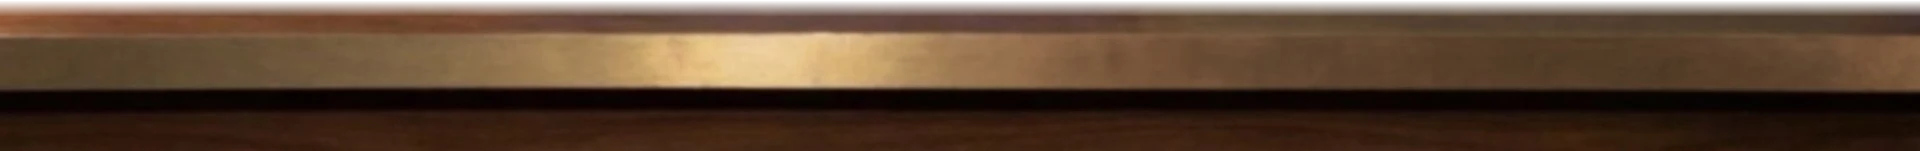
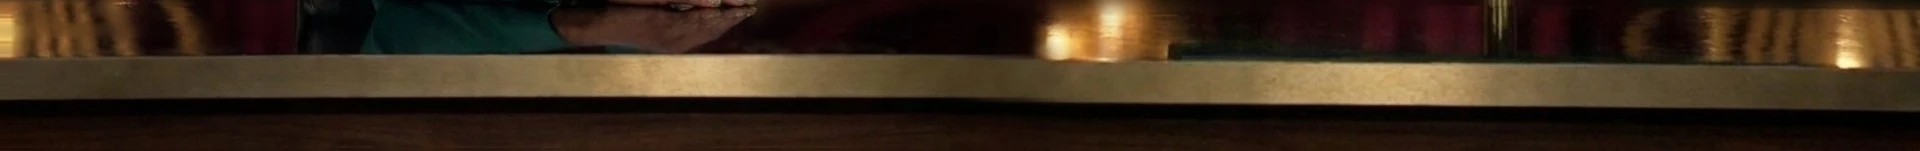
feat: The Gilded Reel moves to an art-deco stage, with Jada framed wider
The studio is redesigned as an art-deco cinema stage: burgundy velvet drapes,
gold sunburst panels and marquee bulbs, all softly out of focus behind a
glossy black desk with a brass edge, and the guest's TV standing on a brass
stand in the open stage rather than on a wall. Jada is framed wider in her
portrait, with room around her hands, and the background behind her is
blurred like a fast lens so the renderer's small zooms do not show against
sharp lines. The TV's place, the director's host and guest framings and the
trailer's corner crop follow the new layout, and her renderer prompt
describes the new stage.

Claude-Session: https://claude.ai/code/session_01GSFhiV3Ep34znZMVb7cbqT

diff --git a/apps/tv-show-live/page/gilded.css b/apps/tv-show-live/page/gilded.css
@@ -228,9 +228,9 @@ button { font: inherit; }
   background: #0c0a07; box-shadow: 0 20px 60px rgba(0, 0, 0, .45), 0 0 0 1px var(--nc-line); }
 .gr-set { position: absolute; inset: 0; transform-origin: 50% 50%; }
 /* Cuts, not zooms: a studio camera is either on its shot or not. */
-/* Jada from the chest up; the TV's edge stays in frame (a video off screen is not sent). */
-.gr-program.is-host .gr-set { transform: scale(1.5); transform-origin: 4% 35%; }
-.gr-program.is-tv .gr-set { transform: scale(1.9); transform-origin: 95.36% 19.4%; }
+/* Jada from the waist up, her hands in frame; the TV's edge stays in frame (a video off screen is not sent). */
+.gr-program.is-host .gr-set { transform: scale(1.6); transform-origin: 8.1% 87.4%; }
+.gr-program.is-tv .gr-set { transform: scale(1.9); transform-origin: 95.52% 51.44%; }
 .gr-wall { position: absolute; inset: 0; width: 100%; height: 100%; object-fit: fill; }
 
 /* Jada: her whole render, laid exactly over her place in the set (the set was outpainted from
@@ -244,8 +244,8 @@ button { font: inherit; }
 .ll-face { position: absolute; inset: 0; overflow: hidden; background: transparent; }
 .ll-face img, .ll-face video { position: absolute; inset: 0; width: 100%; height: 100%; object-fit: cover; display: block; }
 
-/* The TV on the wall: the screen measured from the backdrop's green. */
-.gr-tv { position: absolute; left: 61.483%; top: 14.453%; width: 34.738%; height: 36.328%; overflow: hidden; z-index: 1; background: #0e0d0c; }
+/* The TV on its stand: the screen measured from the backdrop's green. */
+.gr-tv { position: absolute; left: 61.563%; top: 29.630%; width: 33.385%; height: 34.722%; overflow: hidden; z-index: 1; background: #0e0d0c; }
 .gr-tv-feed { position: absolute; inset: 0; opacity: 0; transition: opacity .5s; }
 .gr-tv-feed.is-on { opacity: 1; }
 /* The top of the guest's frame: her face and the film's art behind her (her hands fall below the TV). */
@@ -278,7 +278,7 @@ button { font: inherit; }
 .gr-program.is-trailer .gr-host { left: auto; top: auto; right: 2%; bottom: 10.5%; width: 14%; height: auto; aspect-ratio: 1; z-index: 16;
   -webkit-mask-image: none; mask-image: none; opacity: 1; overflow: hidden; border-radius: .7cqw; background: #0c0a07;
   box-shadow: 0 .8cqw 2.4cqw rgba(0, 0, 0, .7), 0 0 0 .15cqw rgba(216, 177, 92, .7); }
-.gr-program.is-trailer .gr-host .ll-face { transform: scale(1.8); transform-origin: 38% 18%; }
+.gr-program.is-trailer .gr-host .ll-face { transform: scale(2.3); transform-origin: 45.6% 53.3%; }
 .gr-program.is-trailer .gr-host::after { content: attr(data-label); position: absolute; left: 0; right: 0; bottom: 0; z-index: 2; padding: .25cqw .5cqw;
   font: 600 .7cqw/1.2 var(--nc-display); letter-spacing: .08em; text-transform: uppercase; color: var(--nc-ink); background: linear-gradient(0deg, rgba(10, 8, 5, .85), transparent); }
 

diff --git a/apps/tv-show-live/show/script.ts b/apps/tv-show-live/show/script.ts
@@ -142,7 +142,7 @@ export const STABLE_PICTURE =
 // The framing, said outright: Causeur's "fixed camera" alone left this renderer zooming in and out.
 const FRAMING = 'The camera is locked off on a tripod: one fixed medium shot, exactly as framed at the start, the whole upper body and the desk always in frame. The camera never zooms in or out, never pushes in, never pans or tilts.';
 const prompt = (state: string, setting: string) => `${state}\n\n${setting}\n\n${FRAMING} ${STABLE_PICTURE}`;
-const STUDIO = 'The setting is a late-night TV studio: walnut wall panels, a brass art-deco fan, a tall window onto a city at night, warm low light.';
+const STUDIO = 'The setting is an art-deco cinema talk-show stage, softly out of focus: deep burgundy velvet drapes, gold geometric sunburst panels and warm marquee bulbs melting into bokeh, behind a glossy black lacquer desk with a brass edge, warm light.';
 /**
  * While listening, small reactions, which the page rotates every LISTENING_EVERY_MS so the face
  * stays alive: only the head and the face move (Causeur's avatar2: a held state changes the head

diff --git a/apps/tv-show-live/page/App.tsx b/apps/tv-show-live/page/App.tsx
@@ -877,8 +877,8 @@ function Face({ face, poster }: { face: AvatarOnly; poster: string }) {
 }
 
 // The program picture: one studio. The set (studio/wall.jpg) was outpainted from
-// Jada's own camera still: her desk runs on to the right, under a TV on the
-// wall. Her whole render lies exactly over her still, never cropped (her desk
+// Jada's own camera still: her desk runs on to the right, in front of a TV on a
+// stand. Her whole render lies exactly over her still, never cropped (her desk
 // leaves through the bottom of the frame; the edges inside the frame fade, so
 // the renderer's drift has no hard line to slip against); the guest plays on
 // the TV. The director's shots are camera
